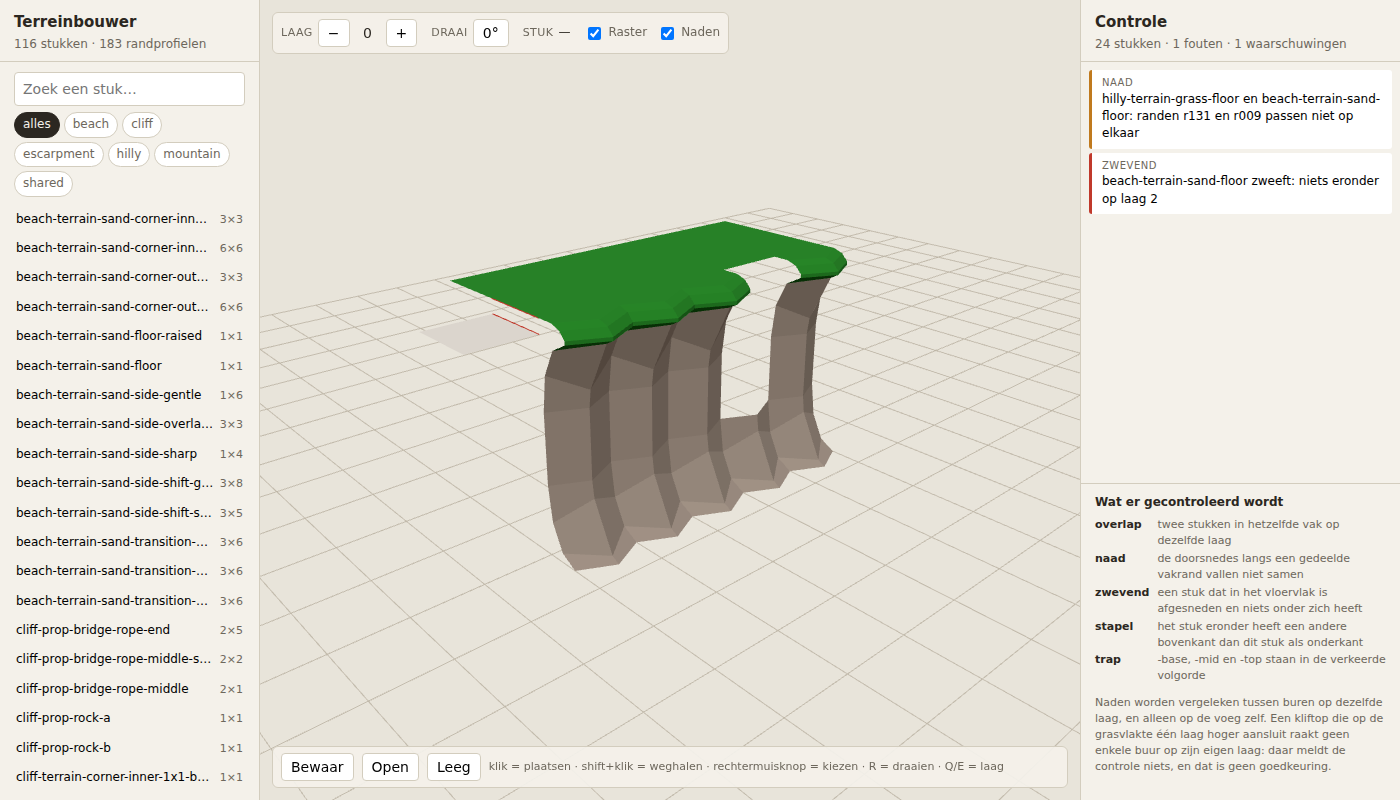
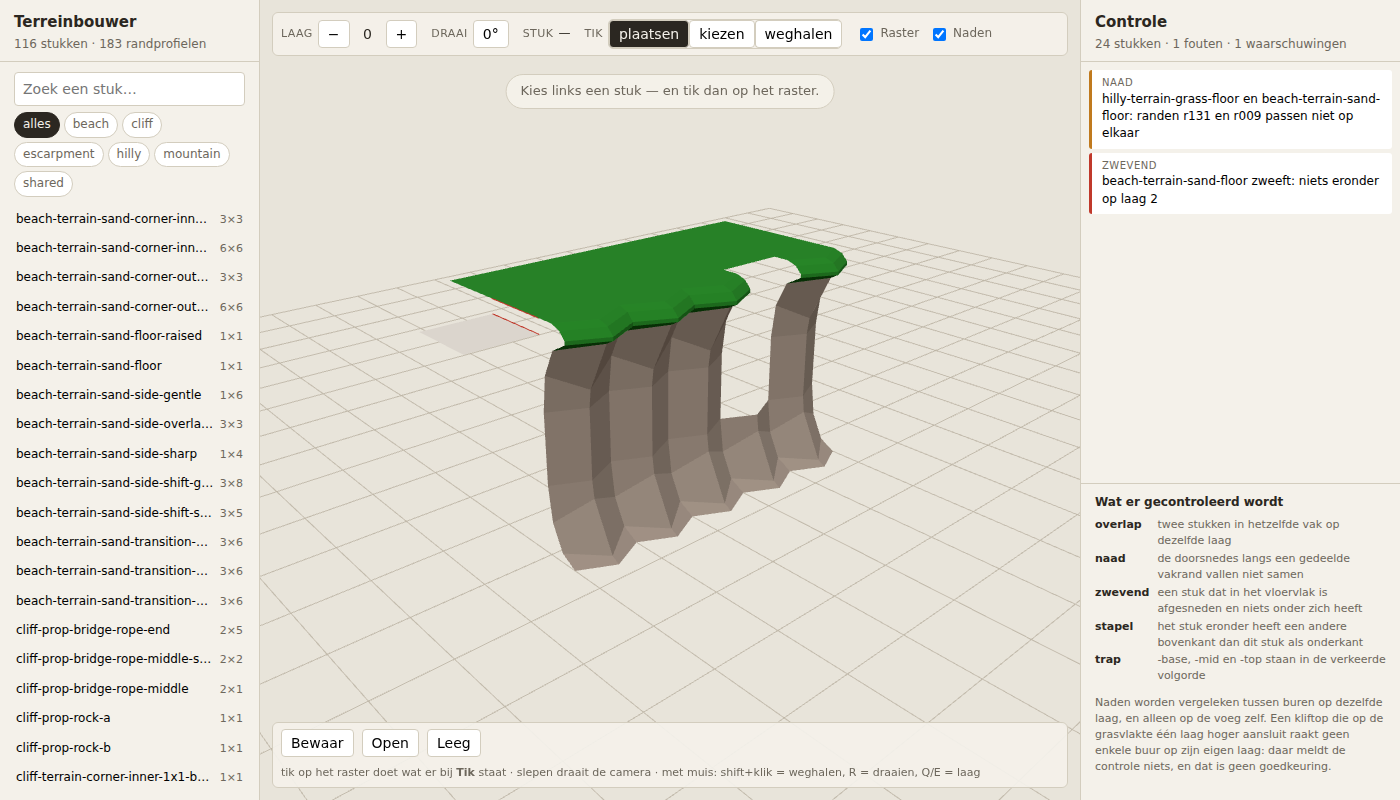
Bouwen zonder muis, en een balk die het doek niet meer wegduwt
Zonder muis was de bouwer niet te bedienen. Weghalen zat op shift+klik, kiezen
op de rechtermuisknop, en op een aanraakscherm bestaat geen van beide. Erger:
plaatsen gebeurde op pointerdown, en op zo'n scherm is slepen de énige manier om
rond te kijken — elke poging om de camera te draaien liet dus een tegel achter.

Nu telt alleen een tik: tussen indrukken en loslaten mag de aanwijzer acht
beeldpunten verschuiven, daarboven was het draaien. Wat een tik doet staat in
een knoppenrij in de balk — plaatsen, kiezen, weghalen — zodat er geen tweede
muisknop en geen toetsenbord meer aan te pas komt. Shift en ctrl blijven werken
voor wie ze heeft; ze krijgen voorrang op de knoppenrij.

Daarbij kwam een echte fout aan het licht, gevonden door met de muis te toetsen
in plaats van plaats() aan te roepen. Met de knoppenrij erbij werd de balk
breder dan de kolom eronder. De browser rolt een knop die de focus krijgt in
beeld, en `overflow: hidden` houdt dat niet tegen — dat verbergt alleen de
rolbalk. Het doek schoof zo 86 beeldpunten opzij en elke tik daarna wees een
ander vak aan dan waar je hem zette: de knop deed het, alleen niet waar je
keek. De balk breekt nu af en blijft binnen de kolom.

Verder: een wenk boven het raster die zegt dat er eerst een stuk gekozen moet
worden (tikken zonder gekozen stuk deed niets en zei niets), stukken uit de
lijst zijn naar het raster te slepen, een indeling van één kolom onder de 900
[…]

diff --git a/tools/terreinbouwer/bouwer.js b/tools/terreinbouwer/bouwer.js
@@ -202,6 +202,9 @@ async function zetSchaduw(naam) {
   if (schaduwNaam !== naam) return; // ondertussen alweer iets anders gekozen
   schaduw = object;
   scene.add(object);
+  // Anders blijft er op een aanraakscherm een doorschijnend stuk op de
+  // oorsprong staan: daar komt geen muis langs die hem verderop zet.
+  werkSchaduwBij();
 }
 
 /* -- stand ----------------------------------------------------------------- */
@@ -214,7 +217,37 @@ const stand = {
   gekozen: null, // id van een geplaatst stuk
   verkennerZijde: 'n',
   toonNaden: true,
+  /* plaatsen, kiezen of weghalen. Bestaat omdat shift en de rechtermuisknop
+   * niet overal bestaan: op een aanraakscherm is er geen tweede knop en geen
+   * toetsenbord, en dan is een knop op het scherm het enige wat overblijft. */
+  modus: 'plaats',
 };
+
+/* -- wenk -----------------------------------------------------------------
+ * De regel over het raster die zegt wat je nu moet doen. Verdwijnt zodra er een
+ * stuk gekozen is, want dan spreekt de rest voor zich.
+ */
+
+const wenkBalk = document.getElementById('wenk');
+let wenkKlok = null;
+
+function wenkOp(tekst = null) {
+  clearTimeout(wenkKlok);
+  if (tekst) {
+    wenkBalk.textContent = tekst;
+    wenkBalk.hidden = false;
+    wenkBalk.dataset.let = 'ja';
+    wenkKlok = setTimeout(() => wenkOp(), 2600);
+    return;
+  }
+  delete wenkBalk.dataset.let;
+  if (stand.penseel) {
+    wenkBalk.hidden = true;
+    return;
+  }
+  wenkBalk.hidden = false;
+  wenkBalk.textContent = 'Kies links een stuk — en tik dan op het raster.';
+}
 
 /* -- controle tonen -------------------------------------------------------- */
 
@@ -320,6 +353,11 @@ function maakStukKnop(model, bijschrift, bijKlik) {
   knop.className = 'stuk';
   knop.setAttribute('role', 'option');
   knop.setAttribute('aria-selected', 'false');
+  knop.draggable = true;
+  knop.addEventListener('dragstart', (e) => {
+    e.dataTransfer.setData('text/plain', model.naam);
+    bijKlik();
+  });
 
   const naam = document.createElement('span');
   naam.className = 'stuk-naam';
@@ -345,6 +383,8 @@ function vulPalet() {
       stand.penseel = model.naam;
       penseelUit.textContent = model.naam;
       zetSchaduw(model.naam);
+      zetModus('plaats'); // net iets gekozen: dan wil je plaatsen, niet weghalen
+      wenkOp();
       for (const k of paletBak.children) k.setAttribute('aria-selected', 'false');
       knop.setAttribute('aria-selected', 'true');
     });
@@ -507,7 +547,25 @@ function werkSchaduwBij() {
   schaduw.traverse((k) => { if (k.isMesh) k.material = materiaal; });
 }
 
+/**
+ * Hoeveel de aanwijzer tussen neer en op mag verschuiven en het nog een tik
+ * heten.
+ *
+ * Zonder deze grens plaatst elke poging om de camera te draaien een stuk: het
+ * indrukken is voor de baanbesturing het begin van een sleep en voor de bouwer
+ * het neerzetten van een tegel. Op een aanraakscherm is dat geen randgeval maar
+ * de normale gang van zaken — daar is slepen de énige manier om rond te kijken.
+ * Acht beeldpunten is ruim genoeg voor een trillende vinger en ruim te weinig
+ * voor een bedoelde sleep.
+ */
+const TIK_SPELING = 8;
+
+let neer = null;
+
 renderer.domElement.addEventListener('pointermove', (e) => {
+  // Een aanraakscherm kent geen zweven: daar zou de schaduw pas verspringen
+  // tijdens het slepen, precies wanneer je hem niet wilt zien.
+  if (e.pointerType !== 'mouse') return;
   const vak = vakOnderMuis(e);
   if (!vak) return;
   if (stand.hover && vak[0] === stand.hover[0] && vak[1] === stand.hover[1]) return;
@@ -516,18 +574,43 @@ renderer.domElement.addEventListener('pointermove', (e) => {
 });
 
 renderer.domElement.addEventListener('pointerdown', (e) => {
-  if (e.button !== 0) return;
+  neer = { x: e.clientX, y: e.clientY, id: e.pointerId };
+});
+
+renderer.domElement.addEventListener('pointercancel', () => { neer = null; });
+
+renderer.domElement.addEventListener('pointerup', (e) => {
+  const begin = neer;
+  neer = null;
+  if (!begin || begin.id !== e.pointerId) return;
+  if (Math.hypot(e.clientX - begin.x, e.clientY - begin.y) > TIK_SPELING) return; // gedraaid, niet getikt
+  if (e.button !== 0 && e.pointerType === 'mouse') return;
+
   const vak = vakOnderMuis(e);
   if (!vak) return;
 
+  /* Zonder muis is de tik zelf het aanwijzen: schuif de schaduw mee, zodat er
+   * ook op een aanraakscherm te zien is wáár het volgende stuk terechtkomt en
+   * of het daar past. */
+  if (e.pointerType !== 'mouse') {
+    stand.hover = vak;
+    werkSchaduwBij();
+  }
+
   const bewoners = bouwsel.op(vak[0], vak[1], stand.laag);
 
-  if (e.shiftKey) {
+  /* Met een muis binnen handbereik zijn de sneltoetsen prettiger dan het
+   * omschakelen van de modus; zonder muis zijn ze onbereikbaar. Vandaar
+   * allebei, met de toetsen als voorrang op de modus. */
+  const modus = e.shiftKey ? 'weg' : (e.ctrlKey || e.metaKey) ? 'kies' : stand.modus;
+
+  if (modus === 'weg') {
     for (const b of bewoners) haalWeg(b.id);
     return;
   }
-  if (e.ctrlKey || e.metaKey || !stand.penseel) {
+  if (modus === 'kies' || !stand.penseel) {
     if (bewoners.length) kies(bewoners[0].id);
+    else if (!stand.penseel) wenkOp('Kies eerst een stuk uit de lijst links.');
     return;
   }
   plaats({ naam: stand.penseel, x: vak[0], z: vak[1], laag: stand.laag, slagen: stand.slagen });
@@ -539,6 +622,30 @@ renderer.domElement.addEventListener('contextmenu', (e) => {
   if (!vak) return;
   const bewoners = bouwsel.op(vak[0], vak[1], stand.laag);
   if (bewoners.length) kies(bewoners[0].id);
+});
+
+/* -- slepen ----------------------------------------------------------------
+ * Voor wie een stuk uit de lijst naar het raster trekt in plaats van te tikken.
+ * Werkt alleen met een muis — een aanraakscherm stuurt geen sleepgebeurtenissen
+ * — dus het is een extra weg, nooit de enige.
+ */
+
+renderer.domElement.addEventListener('dragover', (e) => {
+  if (!stand.penseel) return;
+  e.preventDefault(); // pas hierna mag er losgelaten worden
+  const vak = vakOnderMuis(e);
+  if (!vak) return;
+  stand.hover = vak;
+  werkSchaduwBij();
+});
+
+renderer.domElement.addEventListener('drop', (e) => {
+  e.preventDefault();
+  const naam = e.dataTransfer?.getData('text/plain') || stand.penseel;
+  if (!naam || !kit.modellen.has(naam)) return;
+  const vak = vakOnderMuis(e);
+  if (!vak) return;
+  plaats({ naam, x: vak[0], z: vak[1], laag: stand.laag, slagen: stand.slagen });
 });
 
 /* -- bediening ------------------------------------------------------------- */
@@ -557,6 +664,19 @@ function zetDraai(nieuw) {
   stand.slagen = ((nieuw % 4) + 4) % 4;
   draaiUit.textContent = `${stand.slagen * 90}°`;
   werkSchaduwBij();
+}
+
+const modusBak = document.getElementById('modus');
+
+function zetModus(nieuw) {
+  stand.modus = nieuw;
+  for (const knop of modusBak.children) {
+    knop.setAttribute('aria-pressed', String(knop.dataset.modus === nieuw));
+  }
+}
+
+for (const knop of modusBak.children) {
+  knop.addEventListener('click', () => zetModus(knop.dataset.modus));
 }
 
 document.getElementById('laag-min').addEventListener('click', () => zetLaag(stand.laag - 1));
@@ -619,6 +739,7 @@ if (bewaard) await openBouwsel(JSON.parse(bewaard));
 /* -- draaien --------------------------------------------------------------- */
 
 toonControle();
+wenkOp();
 renderer.setAnimationLoop(() => {
   stuur.update();
   renderer.render(scene, camera);

diff --git a/tools/terreinbouwer/bouwer.css b/tools/terreinbouwer/bouwer.css
@@ -174,6 +174,54 @@ body {
   height: 100%;
 }
 
+/* De regel over het raster die zegt wat er nu te doen valt. */
+.wenk {
+  position: absolute;
+  top: 74px;
+  left: 50%;
+  margin: 0;
+  padding: 7px 14px;
+  border: 1px solid var(--rand);
+  border-radius: 999px;
+  color: var(--grijs);
+  font-size: 13px;
+  background: rgb(244 241 234 / 94%);
+  transform: translateX(-50%);
+  pointer-events: none;
+}
+
+.wenk[data-let="ja"] {
+  border-color: var(--aandacht);
+  color: var(--aandacht);
+  font-weight: 600;
+}
+
+/* Wat een tik op het raster doet. Bestaat omdat shift en de rechtermuisknop
+   niet op elk apparaat bestaan. */
+.modus {
+  display: flex;
+  overflow: hidden;
+  border: 1px solid var(--rand);
+  border-radius: 5px;
+}
+
+.modus button {
+  padding: 3px 9px;
+  border: 0;
+  border-right: 1px solid var(--rand);
+  font: inherit;
+  font-size: 12px;
+  background: #fff;
+  cursor: pointer;
+}
+
+.modus button:last-child { border-right: 0; }
+
+.modus button[aria-pressed="true"] {
+  color: var(--paneel);
+  background: var(--inkt);
+}
+
 /* Vangnet: alleen zichtbaar als de bouwer niet opstart (zie index.html). */
 .storing {
   position: absolute;
@@ -215,11 +263,23 @@ body {
   border: 1px solid var(--rand);
   border-radius: 6px;
   background: rgb(244 241 234 / 92%);
-  gap: 14px;
+  gap: 8px 14px;
   align-items: center;
+  flex-wrap: wrap;
 }
 
-.balk-boven { top: 12px; }
+/* `right` erbij, en afbreken als het niet past.
+ *
+ * Zonder die twee wordt de balk breder dan de kolom en schuift het doek opzij
+ * zodra een knop de aandacht krijgt: de browser rolt een element met de focus
+ * in beeld, en `overflow: hidden` houdt dat niet tegen — het verbergt alleen de
+ * rolbalk. Het doek verspringt dan tientallen beeldpunten en elke tik erna wijst
+ * een ander vak aan dan waar je hem zette. Op een smal scherm gebeurt dat bij de
+ * eerste de beste knop. */
+.balk-boven {
+  top: 12px;
+  right: 12px;
+}
 
 .balk-onder {
   right: 12px;
@@ -350,3 +410,46 @@ body {
 }
 
 .uitleg dd { margin: 0; }
+
+/* -- smal scherm -----------------------------------------------------------
+ * Drie kolommen naast elkaar passen niet op een tablet of telefoon. Daaronder
+ * gaat het raster bovenaan en schuiven het palet en de controle eronder — het
+ * raster blijft daarbij de grootste, want dat is waar gebouwd wordt.
+ */
+
+@media (width <= 900px) {
+  body {
+    overflow: auto;
+    grid-template-rows: 60vh auto auto;
+    grid-template-columns: 1fr;
+  }
+
+  .doek { order: -1; }
+
+  .lade {
+    max-height: 60vh;
+    border: 0;
+    border-top: 1px solid var(--rand);
+  }
+
+  .lijst { max-height: 40vh; }
+
+  .balk {
+    flex-wrap: wrap;
+    gap: 8px 12px;
+  }
+
+  .balk-onder {
+    position: static;
+    margin: 8px 12px 12px;
+  }
+
+  .hulp { display: none; }
+
+  .wenk {
+    top: auto;
+    bottom: 12px;
+    width: max-content;
+    max-width: calc(100% - 24px);
+  }
+}

diff --git a/tools/terreinbouwer/index.html b/tools/terreinbouwer/index.html
@@ -38,6 +38,10 @@
 <main class="doek">
   <canvas id="doek"></canvas>
 
+  <p class="wenk" id="wenk">
+    Kies links een stuk — en klik dan op het raster, of sleep het erheen.
+  </p>
+
   <div class="storing" id="storing" hidden>
     <h2 id="storing-kop">De bouwer start niet</h2>
     <p id="storing-tekst"></p>
@@ -59,6 +63,14 @@
       <span class="veld-kop">Stuk</span>
       <output id="penseel">—</output>
     </div>
+    <div class="veld">
+      <span class="veld-kop">Tik</span>
+      <div class="modus" id="modus" role="group" aria-label="Wat een tik op het raster doet">
+        <button type="button" data-modus="plaats" aria-pressed="true">plaatsen</button>
+        <button type="button" data-modus="kies" aria-pressed="false">kiezen</button>
+        <button type="button" data-modus="weg" aria-pressed="false">weghalen</button>
+      </div>
+    </div>
     <div class="veld veld-schakels">
       <label><input type="checkbox" id="toon-raster" checked> Raster</label>
       <label><input type="checkbox" id="toon-naden" checked> Naden</label>
@@ -70,7 +82,7 @@
     <button type="button" id="laad">Open</button>
     <button type="button" id="leeg">Leeg</button>
     <input type="file" id="bestand" accept="application/json" hidden>
-    <span class="hulp">klik = plaatsen · shift+klik = weghalen · rechtermuisknop = kiezen · R = draaien · Q/E = laag</span>
+    <span class="hulp">tik op het raster doet wat er bij <b>Tik</b> staat · slepen draait de camera · met muis: shift+klik = weghalen, R = draaien, Q/E = laag</span>
   </div>
 </main>
 
